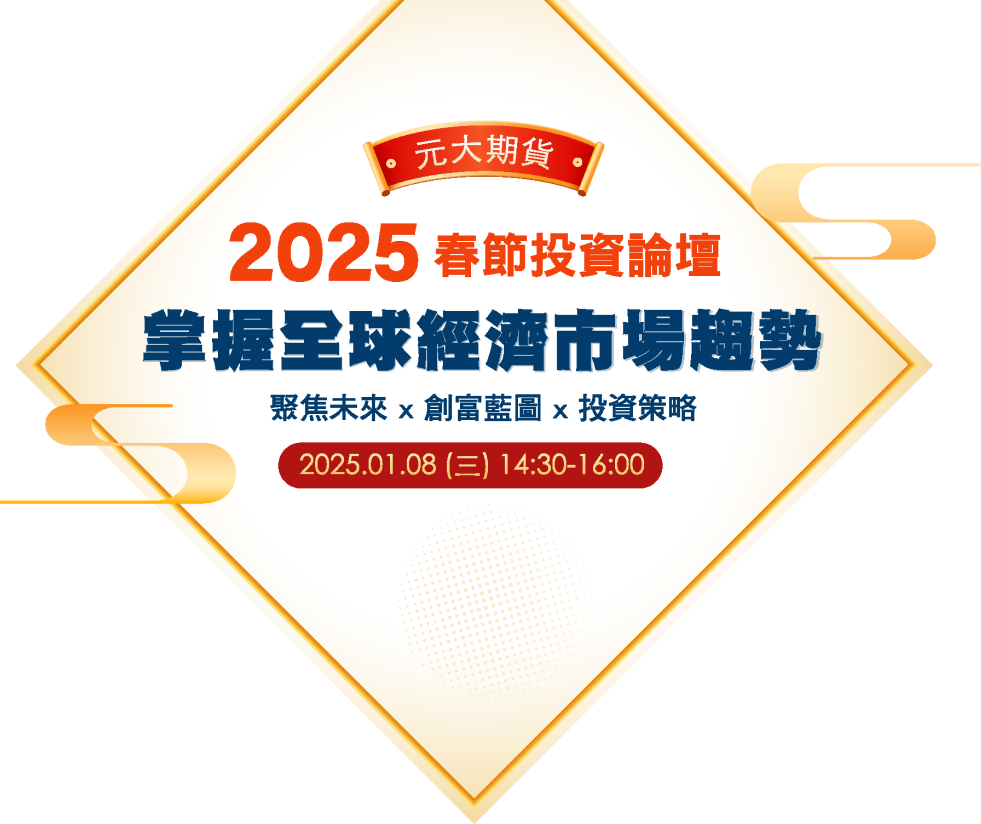
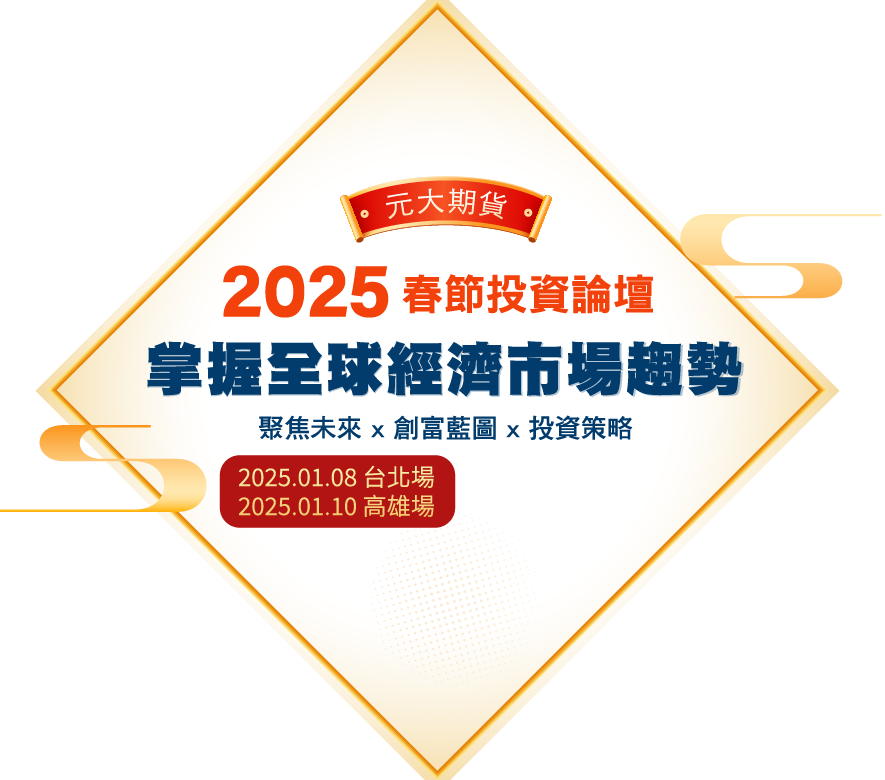
feat(seminar): 換圖, 新增免費報名按鈕

Changed region(s): [[0.0, 0.0, 1.0, 1.0], [0.3051, 0.1846, 0.3356, 0.2154], [0.2746, 0.1231, 0.3051, 0.1538]]

diff --git a/src/app/seminar/components/banner.tsx b/src/app/seminar/components/banner.tsx
@@ -13,14 +13,19 @@ import Image from 'next-image-export-optimizer';
 const Banner = () => {
   return (
     <div className="relative">
-      <div className="container relative w-full pt-[65%] sm:pt-[70%] lg:h-[38rem] lg:pt-0">
-        <Image
-          placeholder="empty"
-          priority
-          src={title}
-          alt="title"
-          className="absolute -top-12 left-1/2 w-full -translate-x-[48%] lg:-top-16 lg:w-11/12"
-        />
+      <div className="container relative w-full pt-[68%] sm:pt-[70%] lg:h-[38rem] lg:pt-0">
+        <div className="absolute left-1/2 top-0 w-full -translate-x-[48%] -translate-y-[18%] lg:w-11/12">
+          <Image
+            placeholder="empty"
+            priority
+            src={title}
+            alt="title"
+            className="w-full"
+          />
+          <button className="sm:xl animate-pulse absolute left-[53%] top-[58.4%] z-20 flex h-[9.2%] w-[23%] items-center justify-center rounded-full border-2 border-y-tab-active-bo text-center font-bold text-white shadow-xl hover:border-y-tab-t hover:!bg-y-tab-bg hover:text-y-tab-t md:border-4 md:text-3xl lg:text-4xl">
+            <a href="#form_top">免費報名</a>
+          </button>
+        </div>
         <div className="absolute -bottom-1 flex items-end px-3 lg:-bottom-16 lg:z-20 lg:px-20">
           <div className="grid grid-cols-[repeat(2,20.75fr)_27fr_repeat(2,20.75fr)] items-end md:grid-cols-[27fr_repeat(4,20.75fr)]">
             <Image
@@ -28,35 +33,35 @@ const Banner = () => {
               priority
               src={moneyGod1}
               alt="moneyGod1"
-              className="animate-swing order-3 origin-bottom md:order-1"
+              className="order-3 origin-bottom animate-swing md:order-1"
             />
             <Image
               placeholder="empty"
               priority
               src={moneyGod2}
               alt="moneyGod2"
-              className="animate-swing order-1 origin-bottom md:order-2"
+              className="order-1 origin-bottom animate-swing md:order-2"
             />
             <Image
               placeholder="empty"
               priority
               src={moneyGod3}
               alt="moneyGod3"
-              className="animate-swing order-2 origin-bottom md:order-3"
+              className="order-2 origin-bottom animate-swing md:order-3"
             />
             <Image
               placeholder="empty"
               priority
               src={moneyGod4}
               alt="moneyGod4"
-              className="animate-swing order-4 origin-bottom"
+              className="order-4 origin-bottom animate-swing"
             />
             <Image
               placeholder="empty"
               priority
               src={moneyGod5}
               alt="moneyGod5"
-              className="animate-swing order-5 origin-bottom"
+              className="order-5 origin-bottom animate-swing"
             />
           </div>
         </div>

diff --git a/src/components/wall.tsx b/src/components/wall.tsx
@@ -8,12 +8,16 @@ import FadeInOnScroll from './animation-container/fade-in-on-scroll';
 type WallProps = {
   children?: React.ReactNode;
   title?: string;
+  id?: string;
 };
 
-const Wall = ({ children, title }: WallProps) => {
+const Wall = ({ children, title, id }: WallProps) => {
   return (
     <FadeInOnScroll className="relative px-0 lg:px-5">
-      <picture className="relative bottom-[calc(100%-4px)] left-0 z-10 h-32 w-52">
+      <picture
+        className="relative bottom-[calc(100%-4px)] left-0 z-10 h-32 w-52"
+        id={id}
+      >
         <source media="(min-width: 1080px)" srcSet={roofDesktopImg.src} />
         <source media="(min-width: 768px)" srcSet={roofTabletImg.src} />
         <img

diff --git a/tailwind.config.ts b/tailwind.config.ts
@@ -126,10 +126,15 @@ export default {
         '50%': { transform: 'rotate(8deg)' },
         '100%': { transform: 'rotate(-8deg)' },
       },
+      pulse: {
+        '0%, 100%': { backgroundColor: '#D84029' },
+        '50%': { backgroundColor: '#910612' },
+      },
     },
     // 添加自定義動畫
     animation: {
       swing: 'swing 5s ease-in-out infinite',
+      pulse: 'pulse 3s cubic-bezier(0.4, 0, 0.6, 1) infinite',
     },
   },
   plugins: [tailwindcssAnimate, tailwindcssAnimationDelay],

diff --git a/src/app/seminar/page.tsx b/src/app/seminar/page.tsx
@@ -161,7 +161,7 @@ const Page = () => {
             </div>
           </WallContent>
         </Wall>
-        <Wall title="報名入口">
+        <Wall title="報名入口" id="form_top">
           <WallContent className="space-y-4 text-left">
             <Suspense>
               <EventForm />
